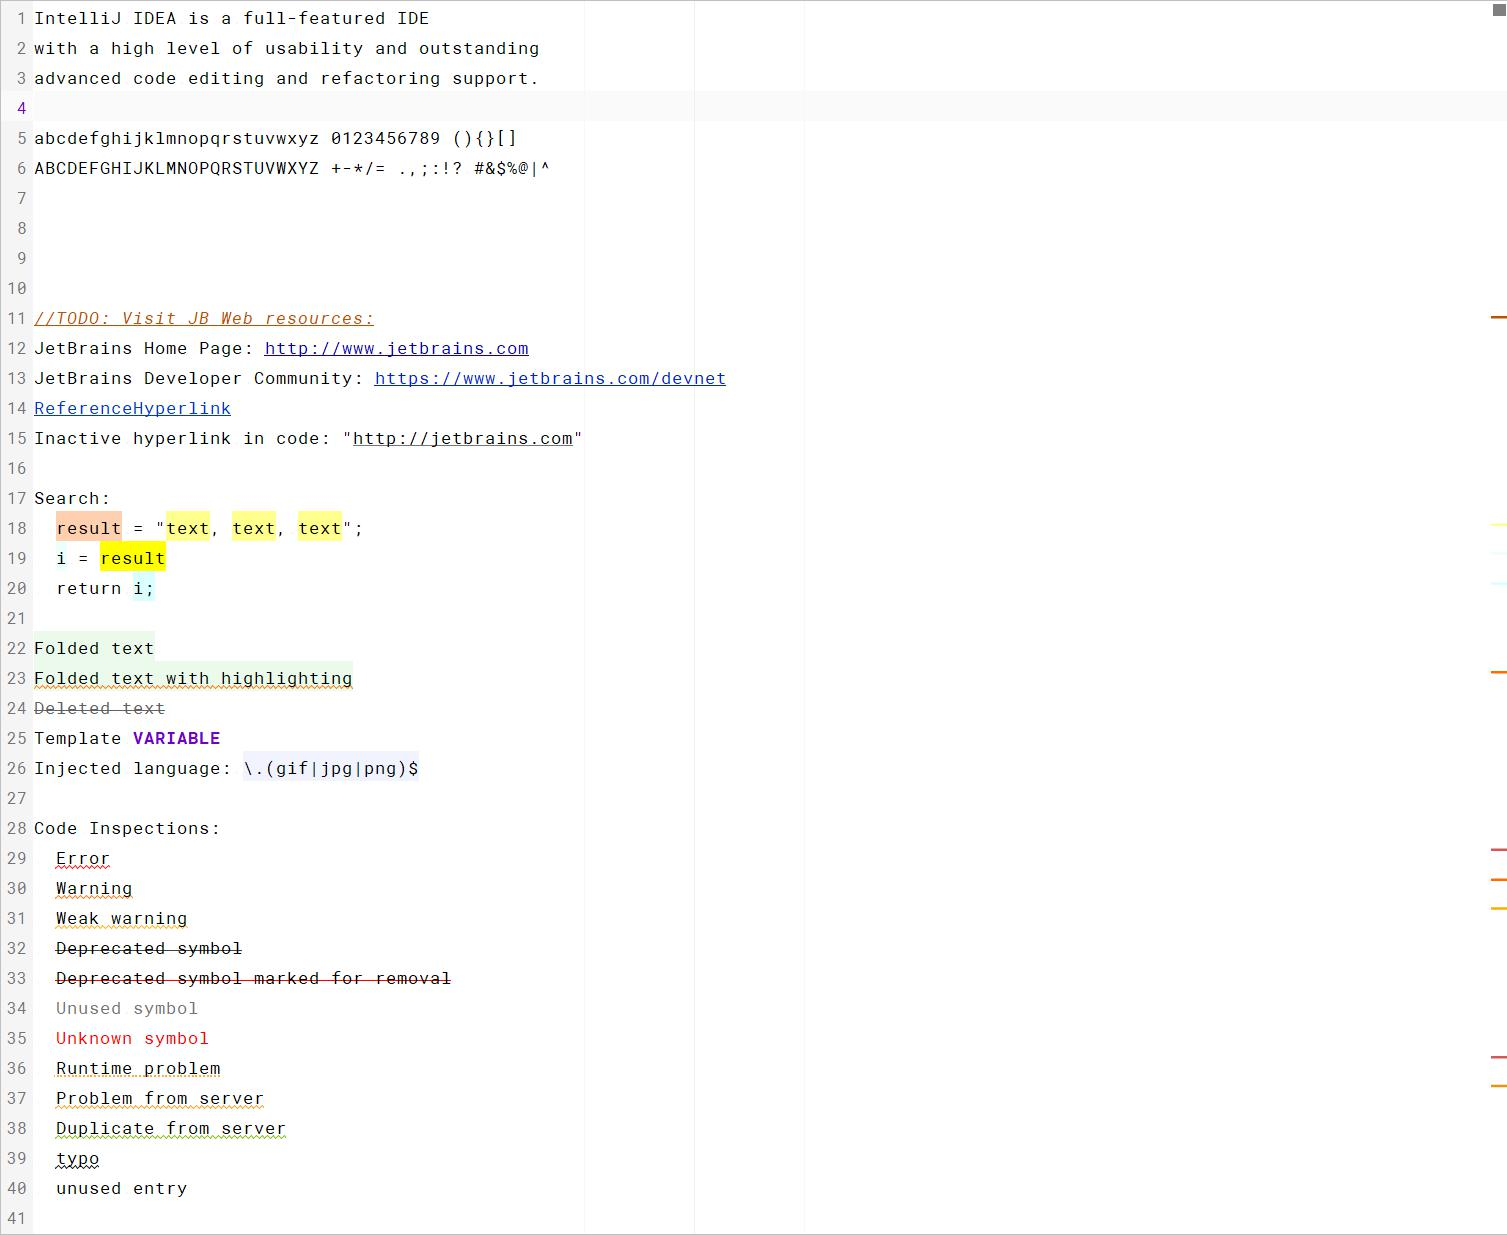
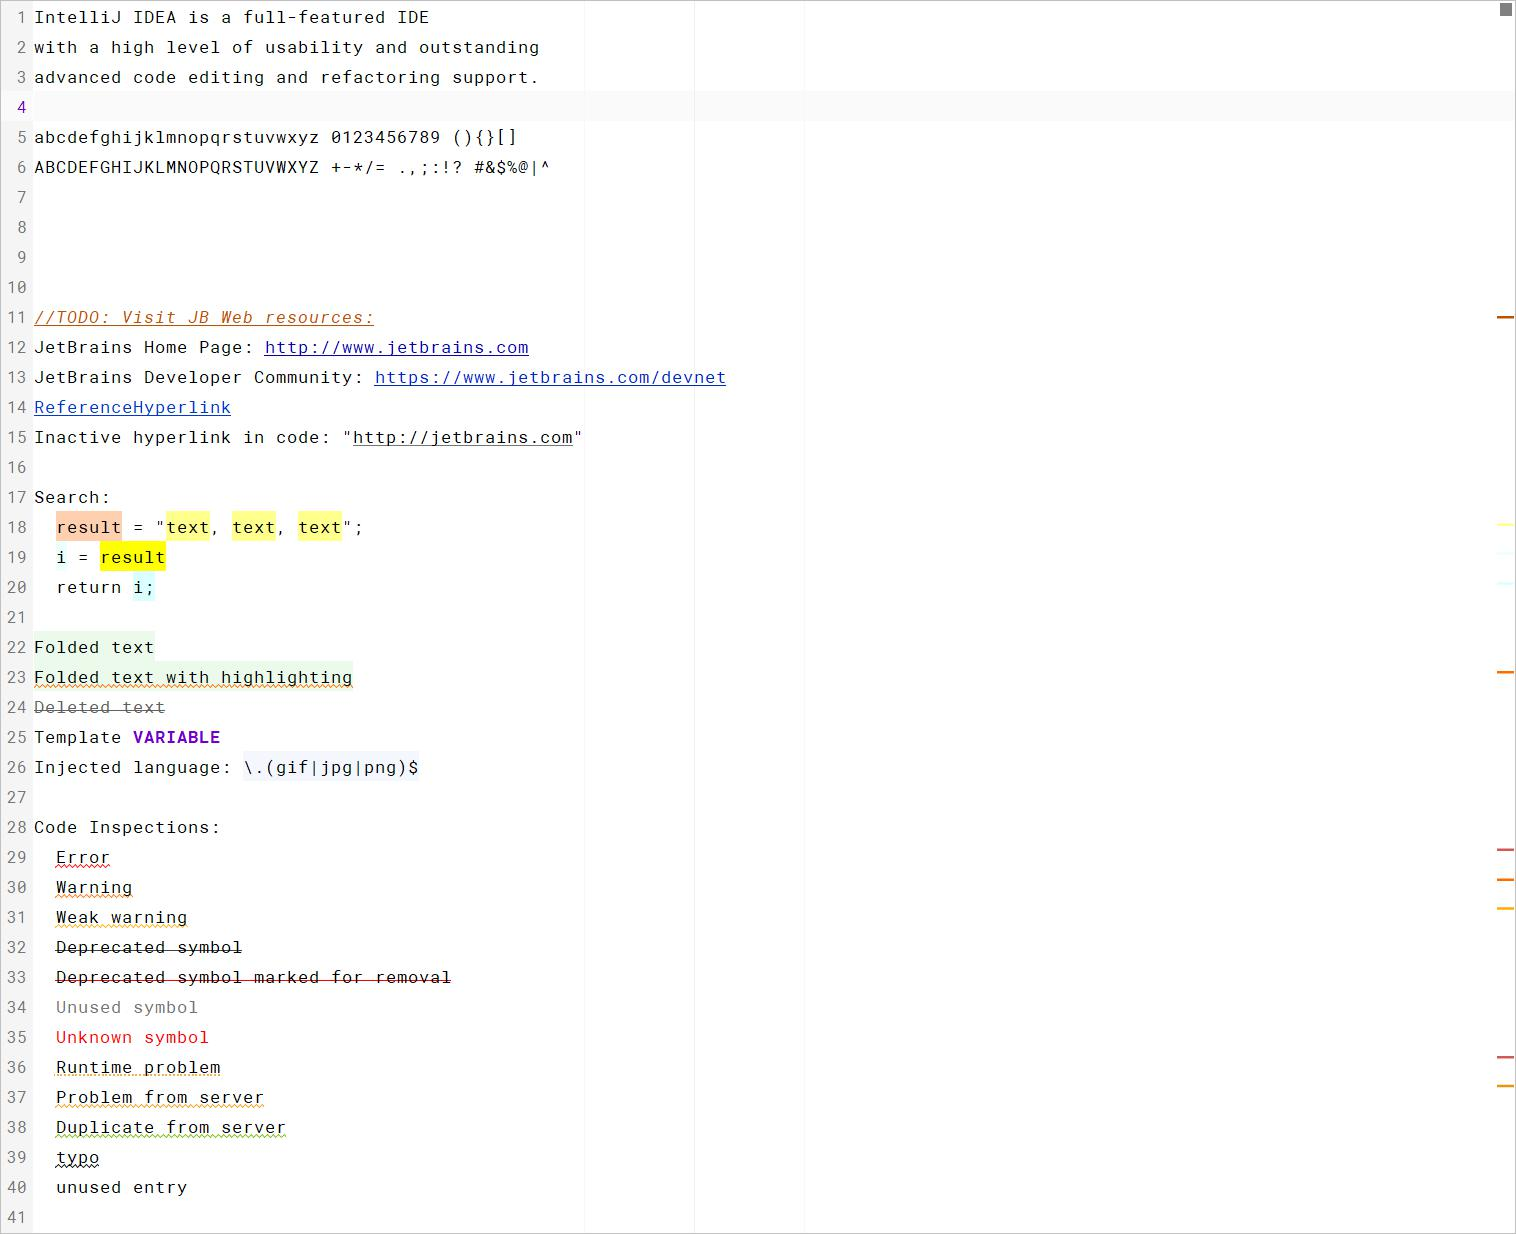
Update screenshots and description.

diff --git a/README.md b/README.md
@@ -15,7 +15,10 @@ Something you need not on this list or any color scheme (or theme) not optimized
 * The meta theme. It's edited on top of the default theme of Intellij Idea, but I've changed every entry I can think of.
 * It makes every highlighting meaningful. You'll find out that every similar highlights' category is similar. Don't worry, their difference are still easy to recognize.
 #### Showcase
-![image](https://user-images.githubusercontent.com/30282312/58776568-4a076580-8599-11e9-9ad2-3eeb70c433e9.png)![image](https://user-images.githubusercontent.com/30282312/58776624-6dcaab80-8599-11e9-8fe7-61eb6090d5c1.png)
+
+![General](Color Schemes/Light/Intellij/Muse/General.jpg)
+
+![Language Defaults](Color Schemes/Light/Intellij/Muse/Language Defaults.jpg)
 #### Recommended setup
 ##### Intellij
 * Disable semantic highlighting as it may cause confusion. However, it still tries to optimize it. So do not hesitate to enable it if you are adapted to it.
@@ -32,6 +35,7 @@ Something you need not on this list or any color scheme (or theme) not optimized
 ## More info about each theme
 They are in the same folder of the specific theme.
 These includes more pictures of the theme.
+
 ## Usage
 ### Color schemes
 #### Intellij
